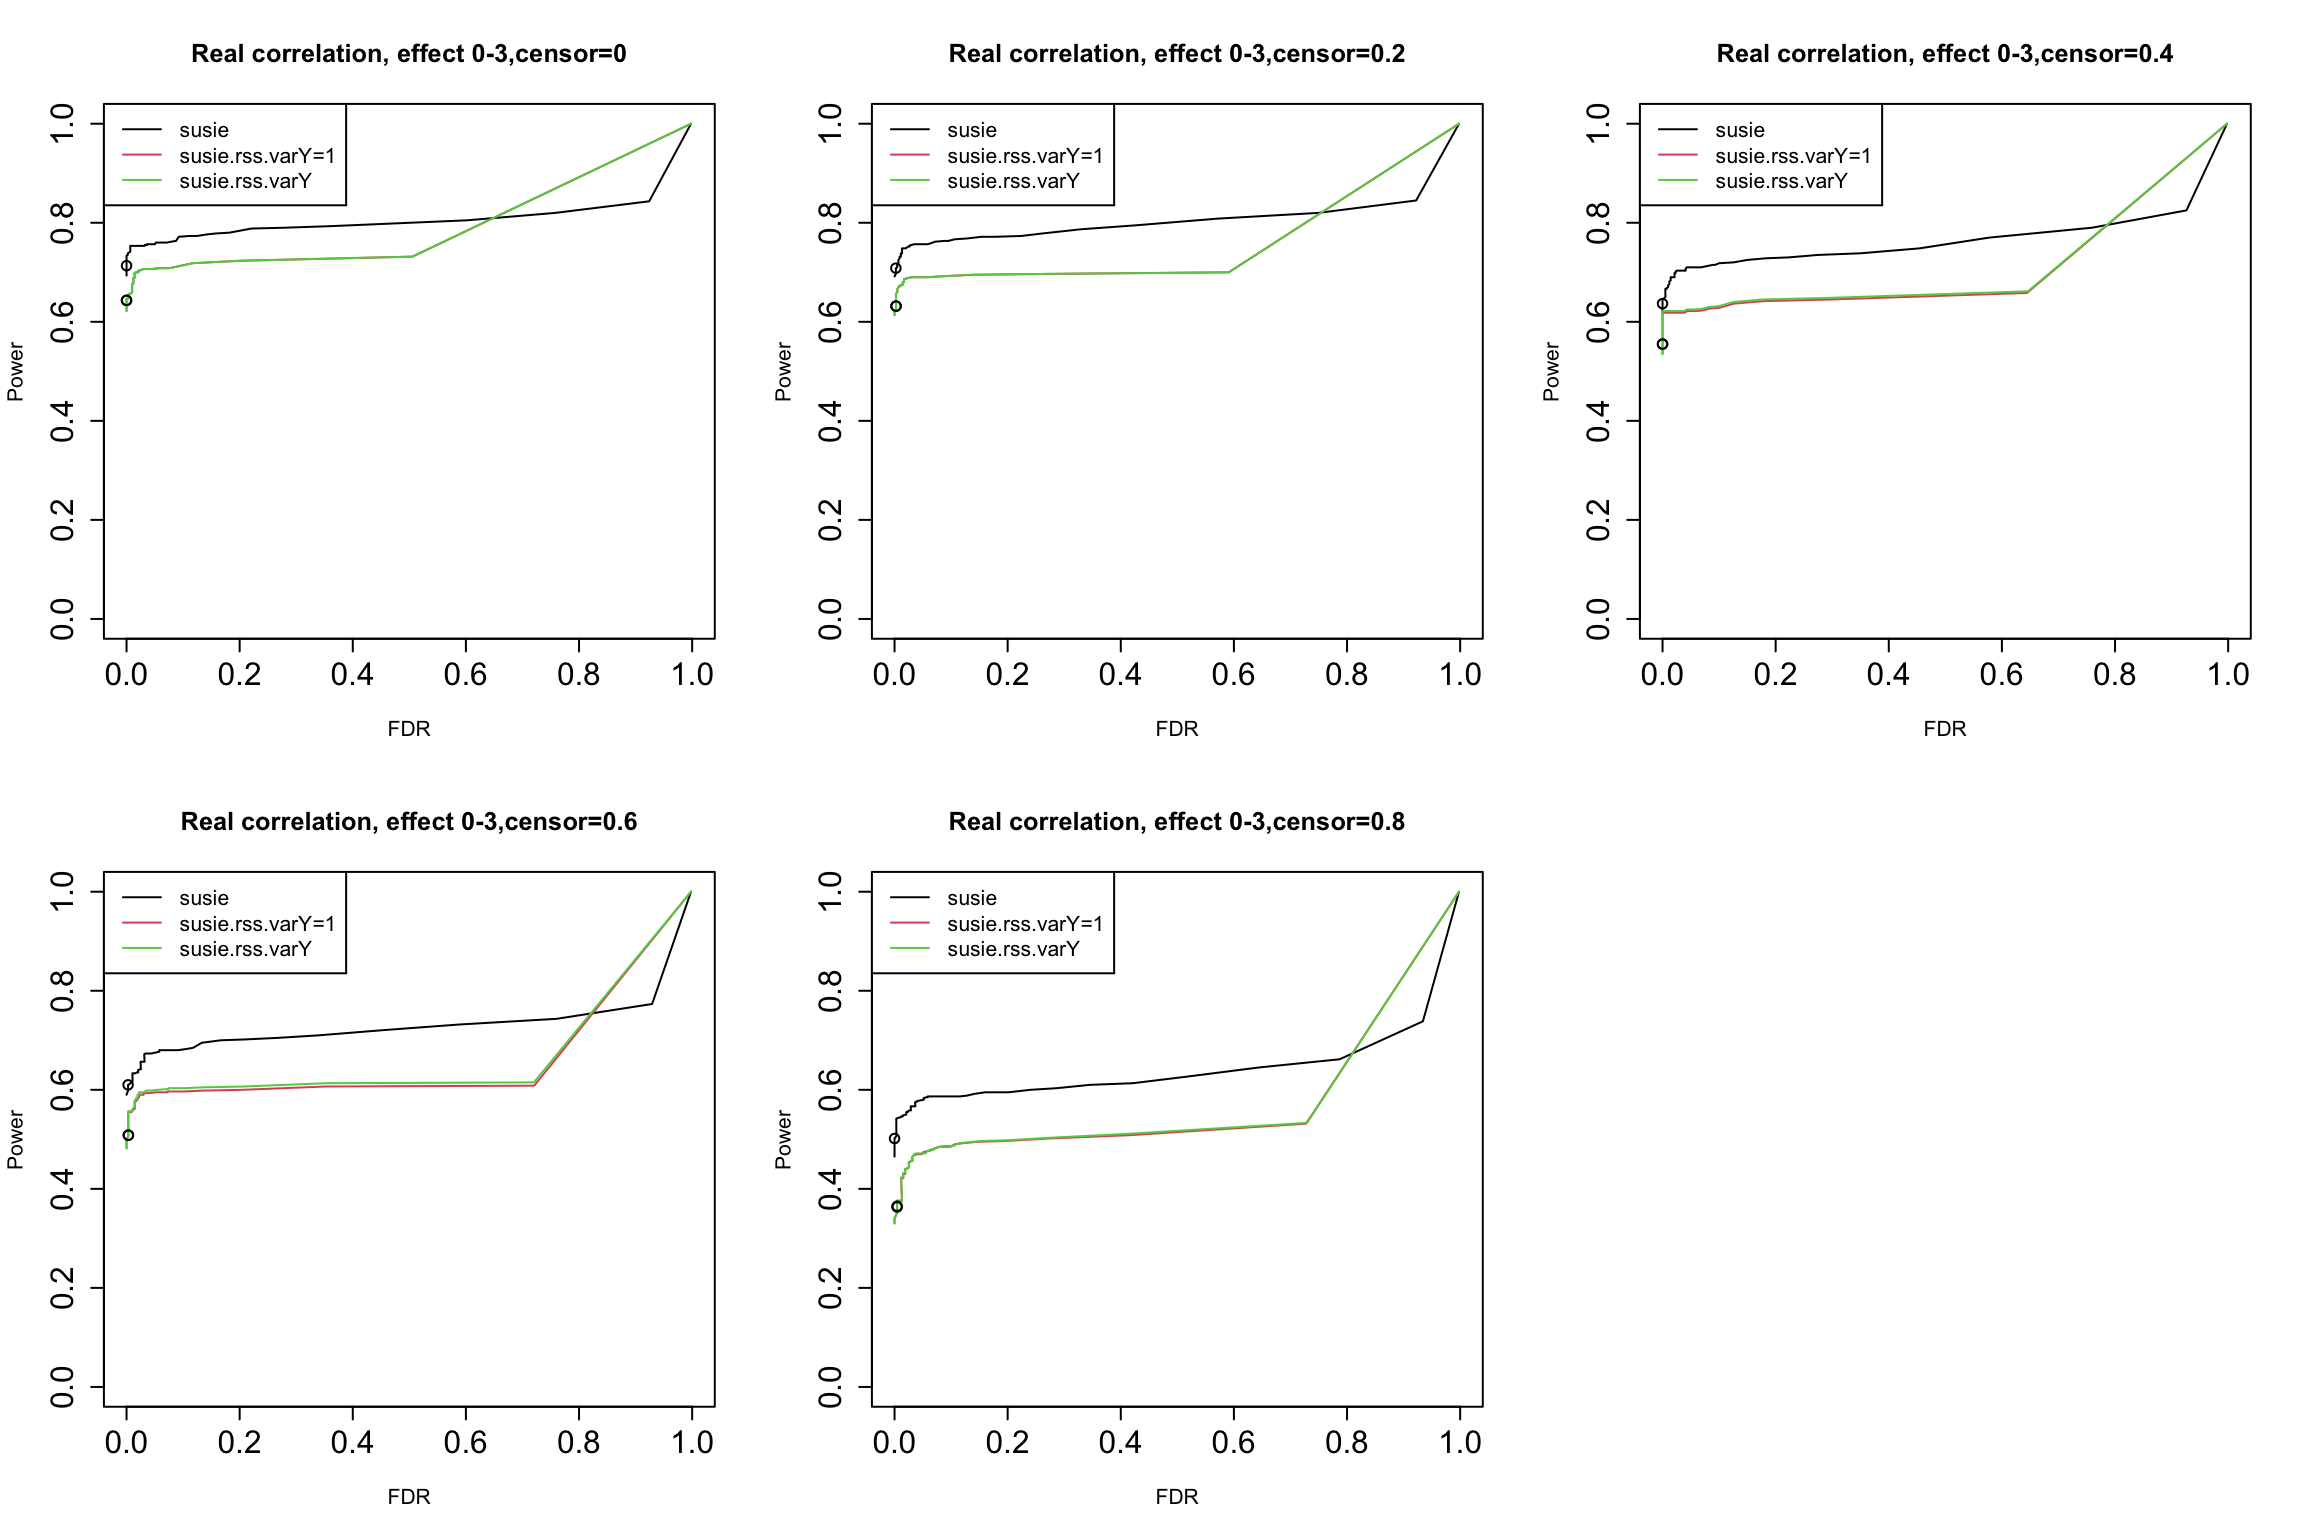
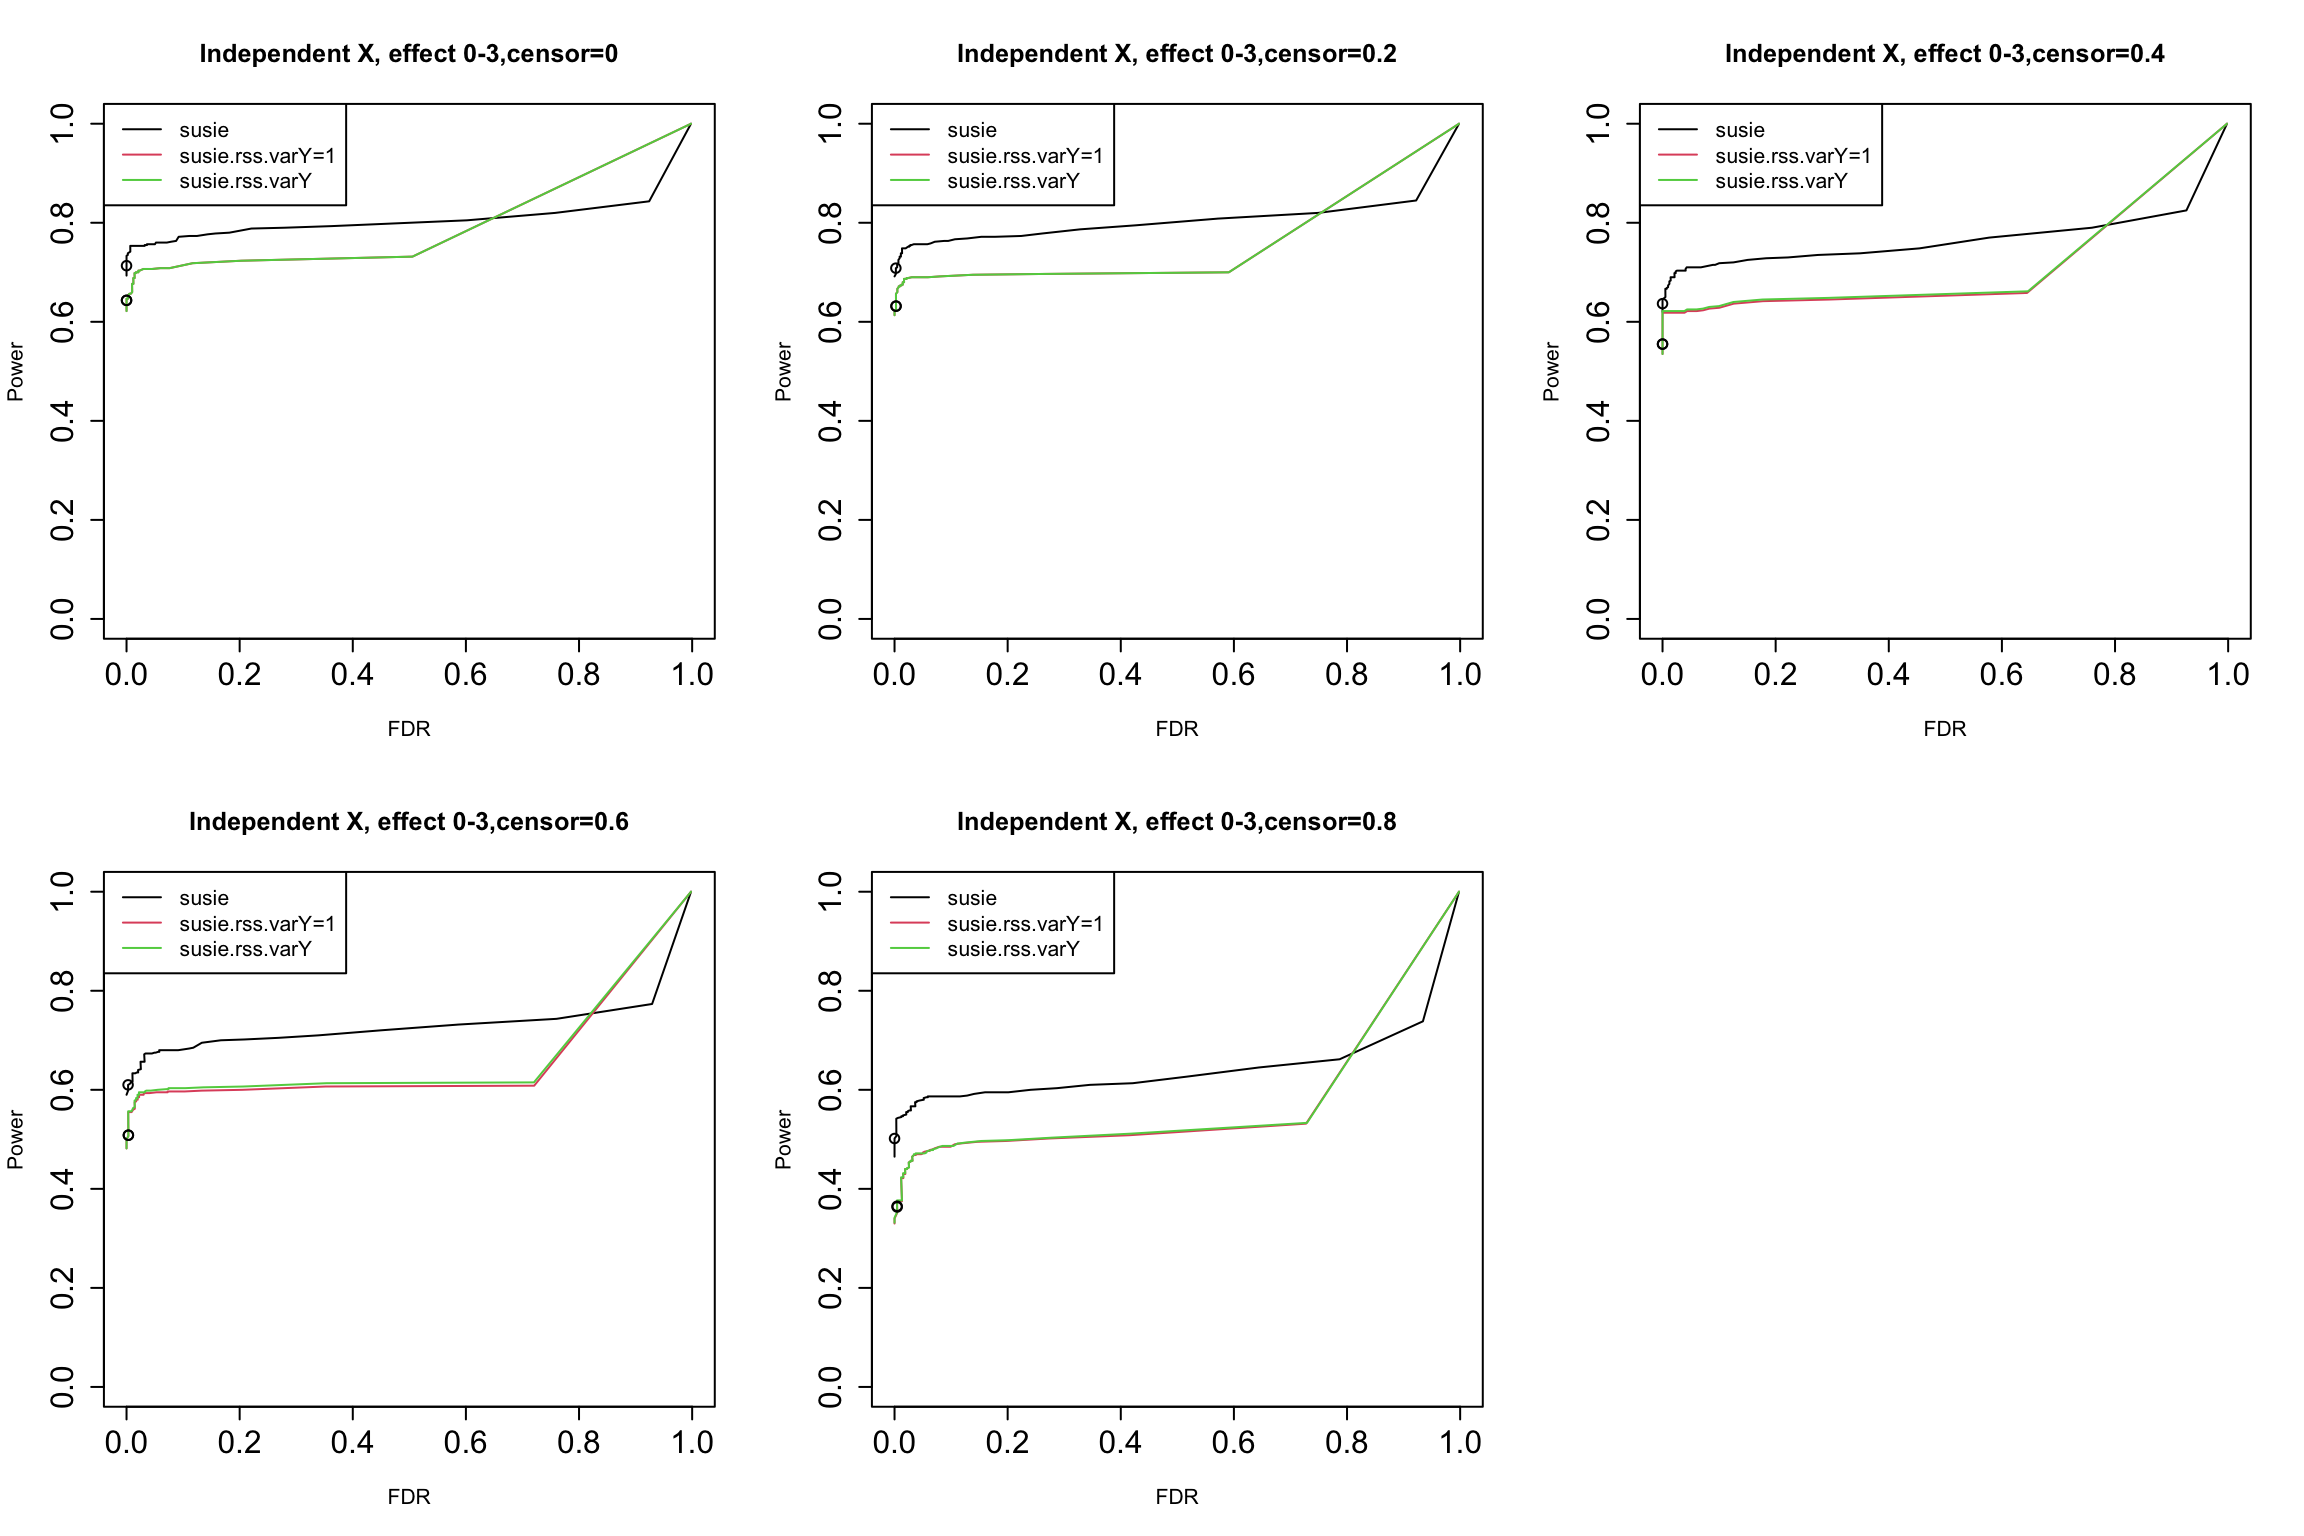
Build site.

diff --git a/docs/survival_susierss.html b/docs/survival_susierss.html
@@ -385,7 +385,7 @@ div.tocify {
 <div class="tab-content">
 <div id="summary" class="tab-pane fade in active">
 <p>
-<strong>Last updated:</strong> 2023-05-19
+<strong>Last updated:</strong> 2023-05-31
 </p>
 <p>
 <strong>Checks:</strong> <span class="glyphicon glyphicon-ok text-success" aria-hidden="true"></span> 7 <span class="glyphicon glyphicon-exclamation-sign text-danger" aria-hidden="true"></span> 0
@@ -476,16 +476,16 @@ This reproducible <a href="http://rmarkdown.rstudio.com">R Markdown</a> analysis
 <div class="panel panel-default">
 <div class="panel-heading">
 <p class="panel-title">
-<a data-toggle="collapse" data-parent="#workflowr-checks" href="#strongRepositoryversionstrongahrefhttpsgithubcomyunqiyang0215survivalsusietreede186521bb0ea4eeb8b070e076e94689fb4469dctargetblankde18652a"> <span class="glyphicon glyphicon-ok text-success" aria-hidden="true"></span> <strong>Repository version:</strong> <a href="https://github.com/yunqiyang0215/survival-susie/tree/de186521bb0ea4eeb8b070e076e94689fb4469dc" target="_blank">de18652</a> </a>
+<a data-toggle="collapse" data-parent="#workflowr-checks" href="#strongRepositoryversionstrongahrefhttpsgithubcomyunqiyang0215survivalsusietree9abac132facd368fef00aafddd85644a5dd73e7btargetblank9abac13a"> <span class="glyphicon glyphicon-ok text-success" aria-hidden="true"></span> <strong>Repository version:</strong> <a href="https://github.com/yunqiyang0215/survival-susie/tree/9abac132facd368fef00aafddd85644a5dd73e7b" target="_blank">9abac13</a> </a>
 </p>
 </div>
[2 lines of base64/hex data omitted]
 <div class="panel-body">
 <p>
 Great! You are using Git for version control. Tracking code development and connecting the code version to the results is critical for reproducibility.
 </p>
 <p>
-The results in this page were generated with repository version <a href="https://github.com/yunqiyang0215/survival-susie/tree/de186521bb0ea4eeb8b070e076e94689fb4469dc" target="_blank">de18652</a>. See the <em>Past versions</em> tab to see a history of the changes made to the R Markdown and HTML files.
+The results in this page were generated with repository version <a href="https://github.com/yunqiyang0215/survival-susie/tree/9abac132facd368fef00aafddd85644a5dd73e7b" target="_blank">9abac13</a>. See the <em>Past versions</em> tab to see a history of the changes made to the R Markdown and HTML files.
 </p>
 <p>
 Note that you need to be careful to ensure that all relevant files for the analysis have been committed to Git prior to generating the results (you can use <code>wflow_publish</code> or <code>wflow_git_commit</code>). workflowr only checks the R Markdown file, but you know if there are other scripts or data files that it depends on. Below is the status of the Git repository when the results were generated:
@@ -495,29 +495,12 @@ Ignored files:
     Ignored:    .DS_Store
     Ignored:    .Rhistory
     Ignored:    .Rproj.user/
-    Ignored:    analysis/.DS_Store
-    Ignored:    analysis/.RData
-    Ignored:    analysis/.Rhistory
     Ignored:    data/.DS_Store
 
-Untracked files:
-    Untracked:  analysis/ibss_null_model.Rmd
-    Untracked:  analysis/poisson_susie.Rmd
-    Untracked:  data/dsc3/
-    Untracked:  data/simulate_3823.rds
-    Untracked:  data/simulate_3855.rds
-
 Unstaged changes:
-    Modified:   analysis/compare_power_fdr.Rmd
-    Deleted:    analysis/null_model_demo.Rmd
-    Modified:   analysis/null_model_zscore.Rmd
-    Deleted:    analysis/one_predictor_investigation.Rmd
-    Deleted:    analysis/ser_survival.Rmd
-    Modified:   analysis/sim_survival_with_censoring.Rmd
-    Modified:   analysis/susie_poor_performance_example.Rmd
-    Deleted:    analysis/vi_poisson.Rmd
-    Modified:   code/VI_exponential.R
-    Modified:   code/vi_poisson.R
+    Modified:   analysis/run_ser_simple_dat.Rmd
+    Modified:   analysis/ser_survival.Rmd
+    Modified:   data/dsc3/susie.lbf.rds
 
 </code></pre>
 <p>
@@ -556,6 +539,40 @@ Message
 </tr>
 </thead>
 <tbody>
+<tr>
+<td>
+Rmd
+</td>
+<td>
+<a href="https://github.com/yunqiyang0215/survival-susie/blob/9abac132facd368fef00aafddd85644a5dd73e7b/analysis/survival_susierss.Rmd" target="_blank">9abac13</a>
+</td>
+<td>
+yunqiyang0215
+</td>
+<td>
+2023-05-31
+</td>
+<td>
+wflow_publish("analysis/survival_susierss.Rmd")
+</td>
+</tr>
+<tr>
+<td>
+html
+</td>
+<td>
+<a href="https://rawcdn.githack.com/yunqiyang0215/survival-susie/2e180a2541d796c9a2d7fb5935ac7ae37ba0c92f/docs/survival_susierss.html" target="_blank">2e180a2</a>
+</td>
+<td>
+yunqiyang0215
+</td>
+<td>
+2023-05-19
+</td>
+<td>
+Build site.
+</td>
+</tr>
 <tr>
 <td>
 Rmd
@@ -753,7 +770,7 @@ for (i in 1:5){
   res.rss.varY = calculate_tpr_vs_fdr(pip.rss.varY, is_effect, ts)
 
   plot(res.susie[,2], res.susie[,1], type = &quot;l&quot;, xlim = c(0,1), ylim = c(0, 1), xlab = &quot;FDR&quot;, ylab = &quot;Power&quot;,
-       main = paste0(&quot;Real correlation, effect 0-3&quot;, &quot;,censor=&quot;, censor_lvl[i]))
+       main = paste0(&quot;Independent X, effect 0-3&quot;, &quot;,censor=&quot;, censor_lvl[i]))
   lines(res.rss[,2], res.rss[,1], type = &quot;l&quot;, col = 2)
   lines(res.rss.varY[,2], res.rss.varY[,1], type = &quot;l&quot;, col = 3)
   
